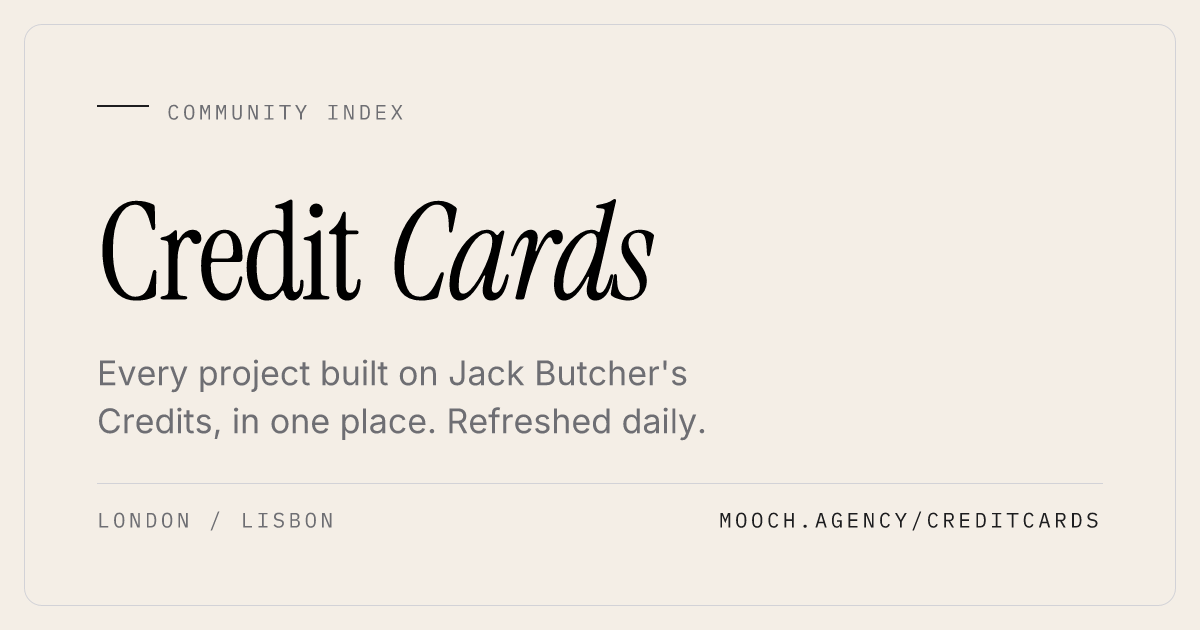
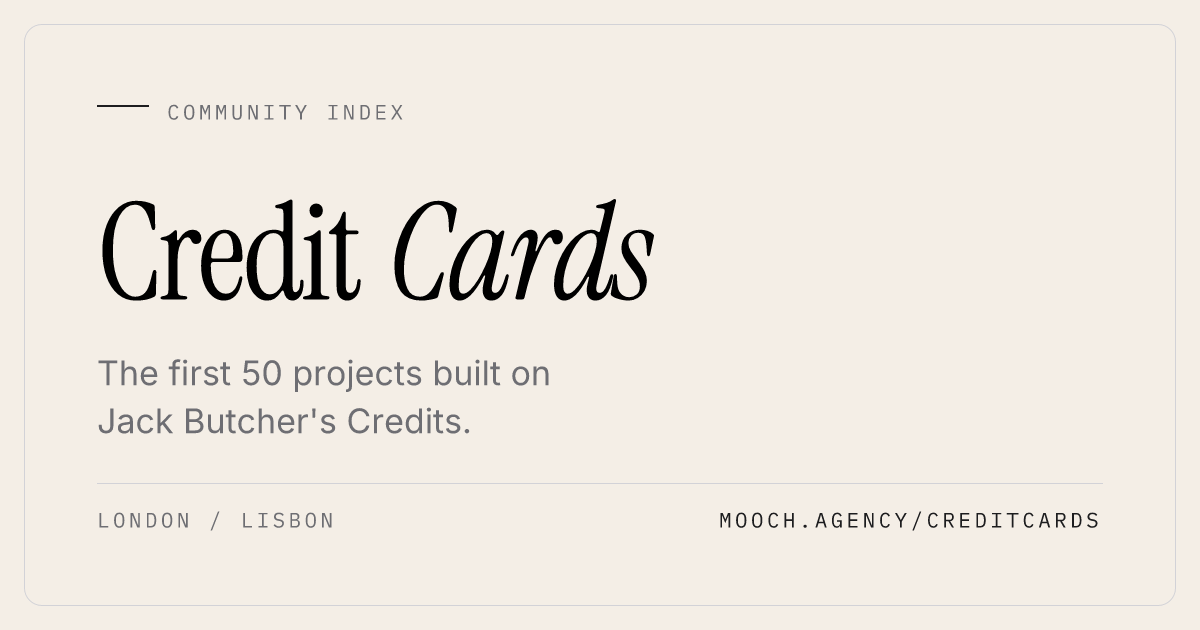
Credit Cards copy: the first 50 projects, with places left (#103)
The index now reads as the first 50 projects built on Credits, not every
project refreshed daily: title line, meta and social descriptions, image
alt text, share card (rebuilt and restamped) and llms.txt. A baked
"2 places left." line follows the title and empties at 50.

Claude-Session: https://claude.ai/code/session_01XbNfhsYkvXVtfMwFoQqCxZ

Changed region(s): [[0.0617, 0.573, 0.5858, 0.6937]]

diff --git a/creditcards.html b/creditcards.html
@@ -7,21 +7,21 @@
 <link rel="icon" type="image/svg+xml" href="/favicon.svg">
 <link rel="icon" type="image/x-icon" href="/favicon.ico">
 <link rel="apple-touch-icon" sizes="180x180" href="/apple-touch-icon-180.png">
-<meta name="description" content="Every community project built around Jack Butcher's Credits collection, in one place. Live floor price, supply and holders, refreshed daily.">
+<meta name="description" content="The first 50 community projects built around Jack Butcher's Credits collection. Live floor price, supply and holders.">
 <meta property="og:type" content="article">
 <meta property="og:url" content="https://mooch.agency/creditcards">
 <link rel="canonical" href="https://mooch.agency/creditcards">
 <meta property="og:title" content="Credit Cards - Credits Projects - Mooch">
-<meta property="og:description" content="Every community project built around Jack Butcher's Credits collection, in one place. Live floor price, supply and holders, refreshed daily.">
-<meta property="og:image" content="https://mooch.agency/og-creditcards.png?v=df6f3218">
+<meta property="og:description" content="The first 50 community projects built around Jack Butcher's Credits collection. Live floor price, supply and holders.">
+<meta property="og:image" content="https://mooch.agency/og-creditcards.png?v=233b19a2">
 <meta property="og:image:width" content="1200">
 <meta property="og:image:height" content="630">
-<meta property="og:image:alt" content="Credit Cards. Every project built on Jack Butcher's Credits, in one place. Refreshed daily.">
+<meta property="og:image:alt" content="Credit Cards. The first 50 projects built on Jack Butcher's Credits.">
 <meta name="twitter:card" content="summary_large_image">
 <meta name="twitter:title" content="Credit Cards - Credits Projects - Mooch">
-<meta name="twitter:description" content="Every community project built around Jack Butcher's Credits collection, in one place. Live floor price, supply and holders, refreshed daily.">
-<meta name="twitter:image" content="https://mooch.agency/og-creditcards.png?v=df6f3218">
-<meta name="twitter:image:alt" content="Credit Cards. Every project built on Jack Butcher's Credits, in one place. Refreshed daily.">
+<meta name="twitter:description" content="The first 50 community projects built around Jack Butcher's Credits collection. Live floor price, supply and holders.">
+<meta name="twitter:image" content="https://mooch.agency/og-creditcards.png?v=233b19a2">
+<meta name="twitter:image:alt" content="Credit Cards. The first 50 projects built on Jack Butcher's Credits.">
 <link rel="preconnect" href="https://fonts.googleapis.com">
 <link rel="preconnect" href="https://fonts.gstatic.com" crossorigin>
 <!-- Instrument Serif loads without blocking first paint: the largest thing on
@@ -1159,7 +1159,7 @@
   <div class="cc-head-inner">
     <div class="eyebrow reveal d1"><span class="rule"></span> Community index</div>
     <h1 class="reveal d2">Credit <em>Cards</em></h1>
-    <p class="cc-standfirst reveal d3">Every project built on Jack Butcher's Credits, in one place.</p>
+    <p class="cc-standfirst reveal d3">The first 50 projects built on Jack Butcher's Credits. <span data-stat="capLine">2 places left.</span></p>
     <details class="about reveal d4">
       <summary>What are Credits?</summary>
       <div class="about-body">
@@ -1205,7 +1205,7 @@
     <!-- creditcards:projects:start -->
     <div class="projects-head">
       <h2 id="projects">The projects</h2>
-      <p><span data-filter-status aria-live="polite">48 projects</span> &middot; Found daily on X</p>
+      <p><span data-filter-status aria-live="polite">48 projects</span> &middot; The first 50 found on X</p>
     </div>
     <div class="cc-bar">
     <div class="cc-filter" role="group" aria-label="Filter projects by category" data-scroller>
